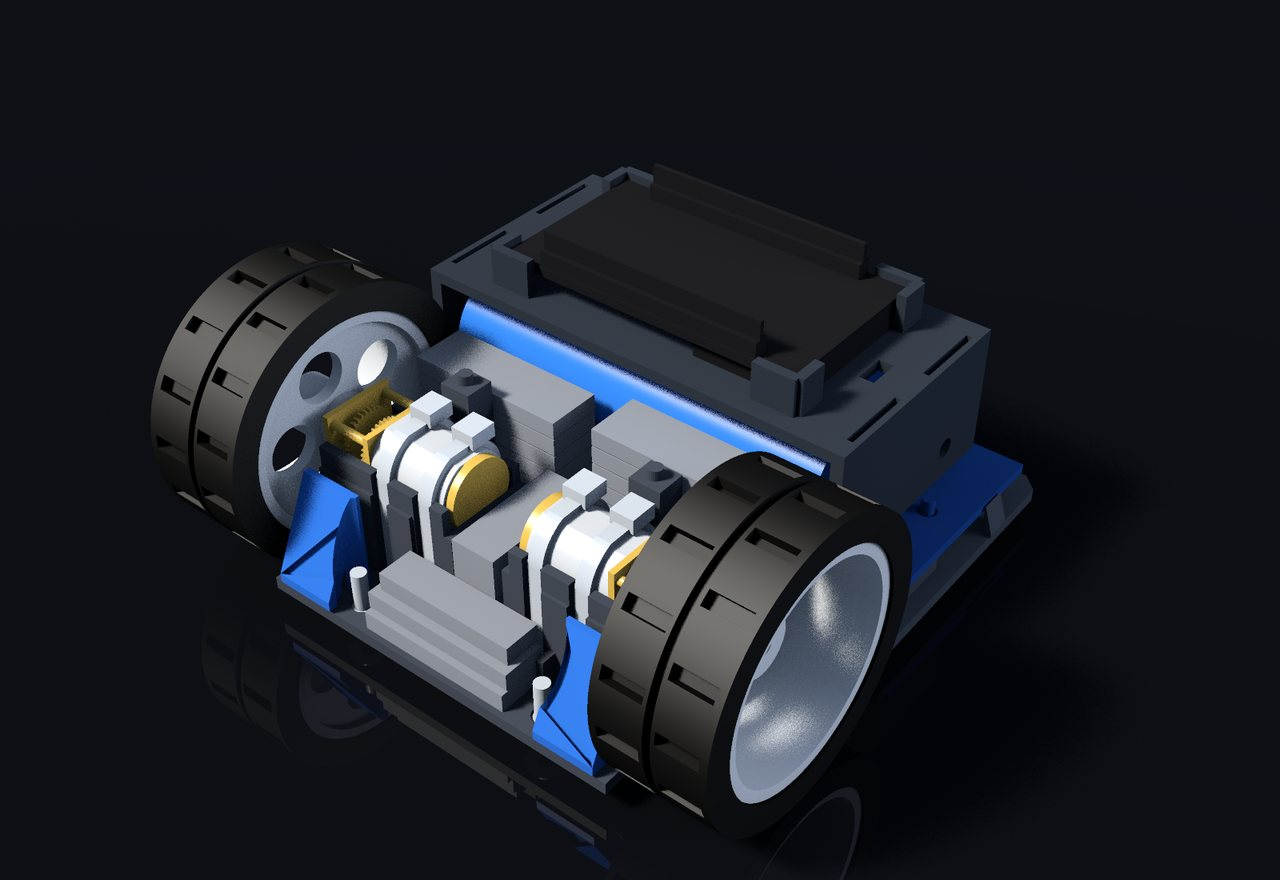
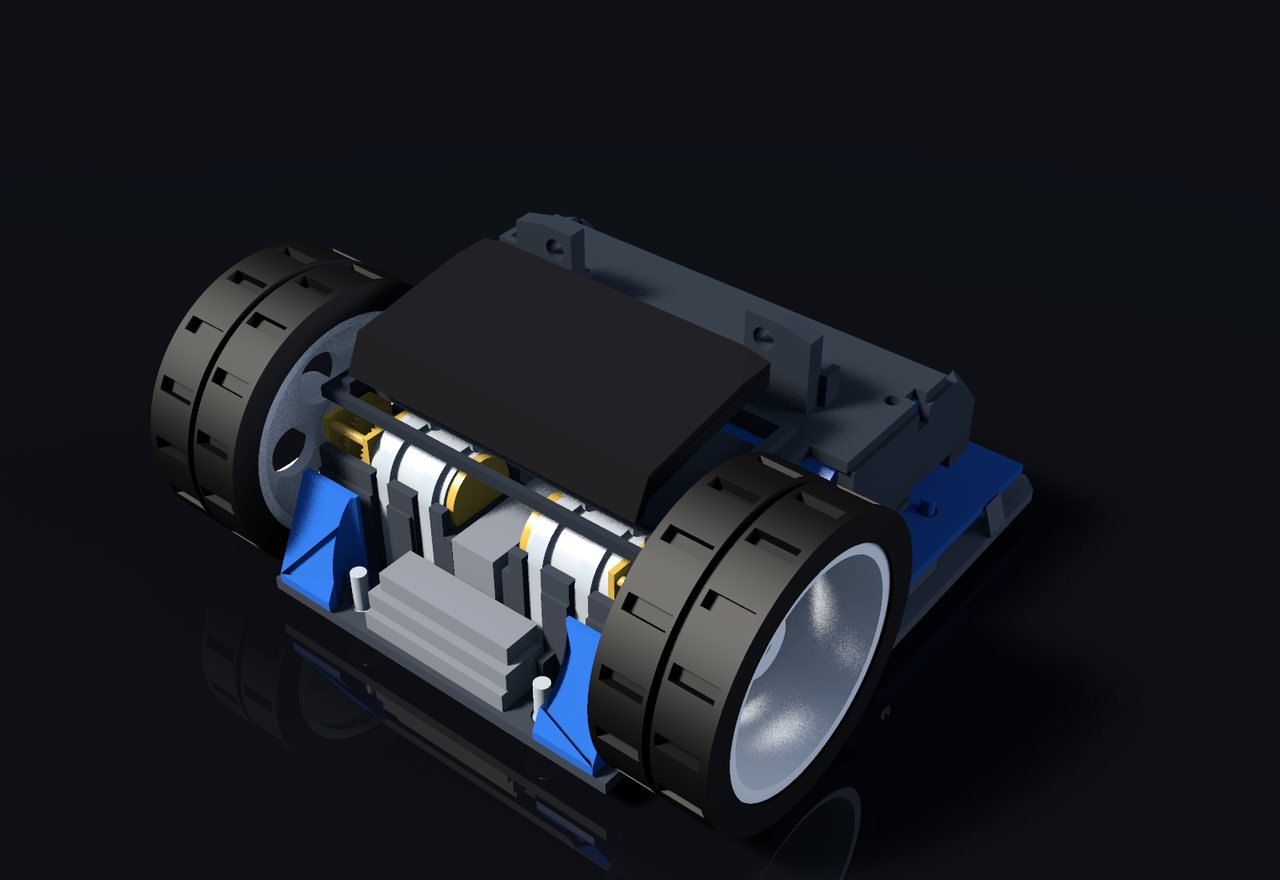
Renders del minisumo con el caparazón bajo (v11)
Claude-Session: https://claude.ai/code/session_01XEGu5kkRULXVuEeZWyJtd7

Changed region(s): [[0.1875, 0.1841, 0.7812, 0.6443], [0.625, 0.675, 0.6562, 0.7364], [0.7188, 0.5216, 0.75, 0.5523]]

diff --git a/index.html b/index.html
@@ -398,11 +398,11 @@
                 </figure>
                 <figure>
                     <img src="images/minisumo_interior.jpg" alt="Render del interior sin caparazón" class="redondeada">
-                    <figcaption>Interior: motores, plomo, baterías y el ESP32 arriba.</figcaption>
+                    <figcaption>Interior: motores, plomo, portapilas y la bandeja del ESP32 arriba.</figcaption>
                 </figure>
                 <figure>
                     <img src="images/minisumo_atras.jpg" alt="Render de la parte trasera" class="redondeada">
-                    <figcaption>Parte trasera: hueco hundido para la llave de encendido.</figcaption>
+                    <figcaption>Parte trasera: caparazón en cuña, bien bajo para no dar palanca.</figcaption>
                 </figure>
             </div>
             <p class="minisumo-nota">Renders generados por computadora a partir del modelo 3D real.</p>
@@ -413,7 +413,7 @@
             <div class="dialog-grid">
                 <div class="chip">
                     <p class="chip-label">Medidas</p>
-                    <p class="chip-val">10 × 10 cm · 62 mm de alto</p>
+                    <p class="chip-val">10 × 10 cm · 53 mm de alto</p>
                 </div>
                 <div class="chip">
                     <p class="chip-label">Peso</p>
@@ -511,9 +511,9 @@ if (lineaIzq || lineaCentro || lineaDer) {
             <p class="dialog-seccion">Lo que aprendimos</p>
             <div class="dialog-alerta">
                 <p class="alerta-titulo">El cableado también ocupa lugar</p>
-                <p class="alerta-desc">La primera versión del caparazón no cerraba porque no contamos el espacio de los
-                    cables. Pasamos por varias versiones (v7, v11, v12, v13) hasta llegar a la v14: una caja vacía con
-                    un soporte único para las baterías y el ESP32, y los cables soldados en vez de fichas Dupont.</p>
+                <p class="alerta-desc">Un robot bajo es más difícil de levantar, pero adentro todo queda apretado. Probamos
+                    varias versiones del caparazón buscando el equilibrio entre altura y lugar para los cables, y
+                    aprendimos a contar el espacio del cableado desde el primer diseño.</p>
             </div>
             <div class="dialog-badges">
                 <span class="badge">C++ / Arduino IDE</span>
